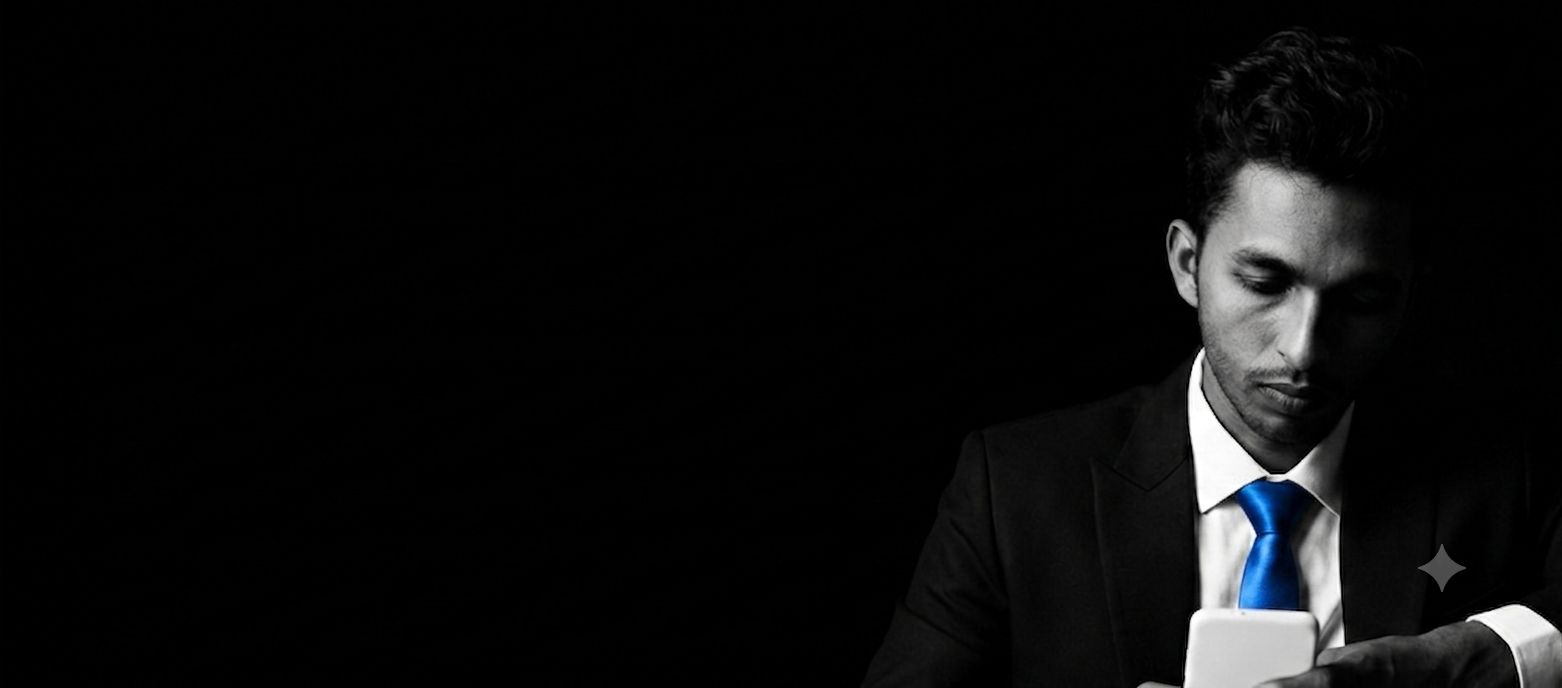
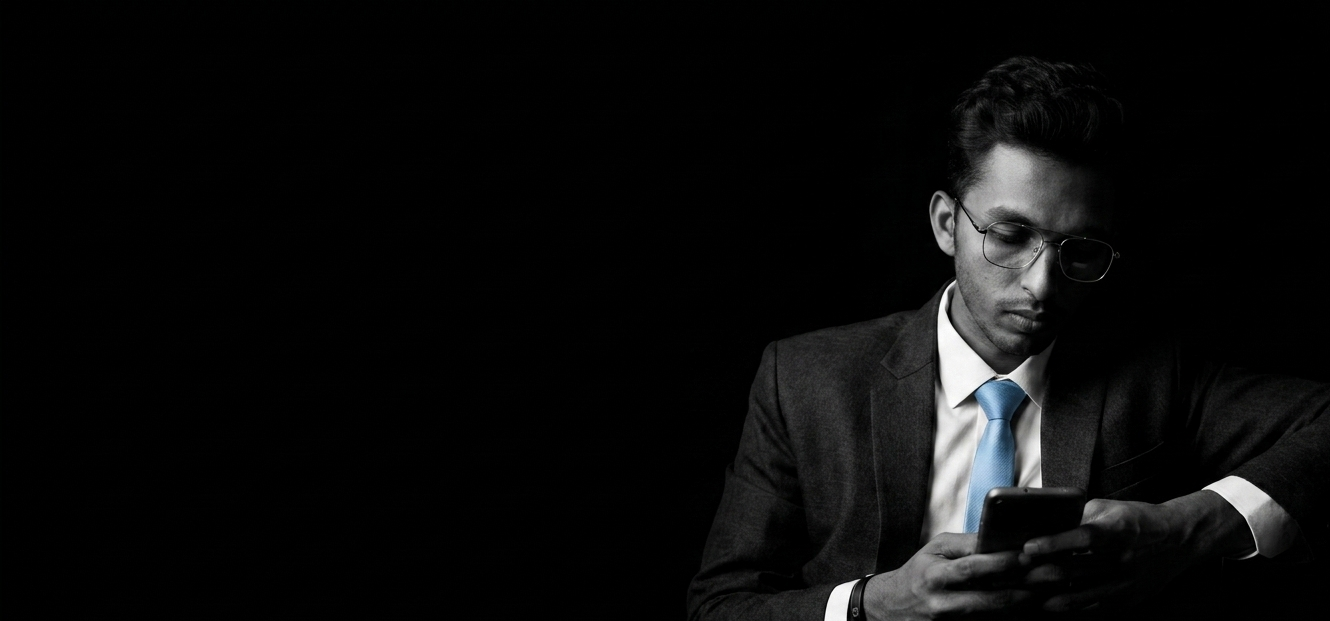
image change

diff --git a/src/components/Skills.jsx b/src/components/Skills.jsx
@@ -51,7 +51,9 @@ const Skills = () => {
         {Object.entries(skillCategories).map(([category, skills], categoryIndex) => (
           <div key={categoryIndex} className="mb-12">
             <h3 className="text-xl font-semibold text-accent mb-6 text-center">{category}</h3>
-            <div className="grid grid-cols-2 md:grid-cols-3 lg:grid-cols-5 gap-4 max-w-5xl mx-auto">
+            
+            
+            <div className="flex flex-wrap justify-center gap-4 max-w-5xl mx-auto">
               {skills.map((skill, index) => {
                 const Icon = iconMap[skill];
                 return (
@@ -61,7 +63,7 @@ const Skills = () => {
                     whileInView={{ opacity: 1, scale: 1 }}
                     transition={{ duration: 0.3, delay: index * 0.05 }}
                     viewport={{ once: true }}
-                    className="group bg-secondary p-6 rounded-xl text-center hover:shadow-xl hover:shadow-accent/20 transition-all duration-300 hover:-translate-y-2 border border-secondary hover:border-accent/30"
+                    className="group bg-secondary p-6 rounded-xl text-center hover:shadow-xl hover:shadow-accent/20 transition-all duration-300 hover:-translate-y-2 border border-secondary hover:border-accent/30 w-[150px] flex-shrink-0"
                   >
                     {Icon && (
                       <Icon className="text-5xl mx-auto mb-3 text-dimText group-hover:text-accent transition-colors duration-300" />

diff --git a/src/data/data.js b/src/data/data.js
@@ -15,7 +15,7 @@ export const projects = [
     tech: ['React', 'Vite', 'Tailwind CSS', 'Socket.io'],
     github: "https://github.com/yourusername/auction-system",
     live: "https://auction-system.vercel.app",
-    image: "/assets/auction.png",
+    image: "/auction.png",
   },
   {
     id: 2,
@@ -24,7 +24,7 @@ export const projects = [
     tech: ['Figma', 'React', 'Tailwind CSS'],
     github: "https://github.com/yourusername/eta-redesign",
     live: "https://eta-redesign.vercel.app",
-    image: "/assets/eta.png",
+    image: "/ETA.jpg",
   },
   {
     id: 3,

diff --git a/src/components/About.jsx b/src/components/About.jsx
@@ -13,7 +13,7 @@ const About = () => {
         }}
       >
         {/* Dark Overlay - adjust opacity as needed */}
-        <div className="absolute inset-0 bg-primary/50 "></div>
+        <div className="absolute inset-0 bg-primary/10 "></div>
       </div>
 
       {/* Content - positioned on top of background */}
